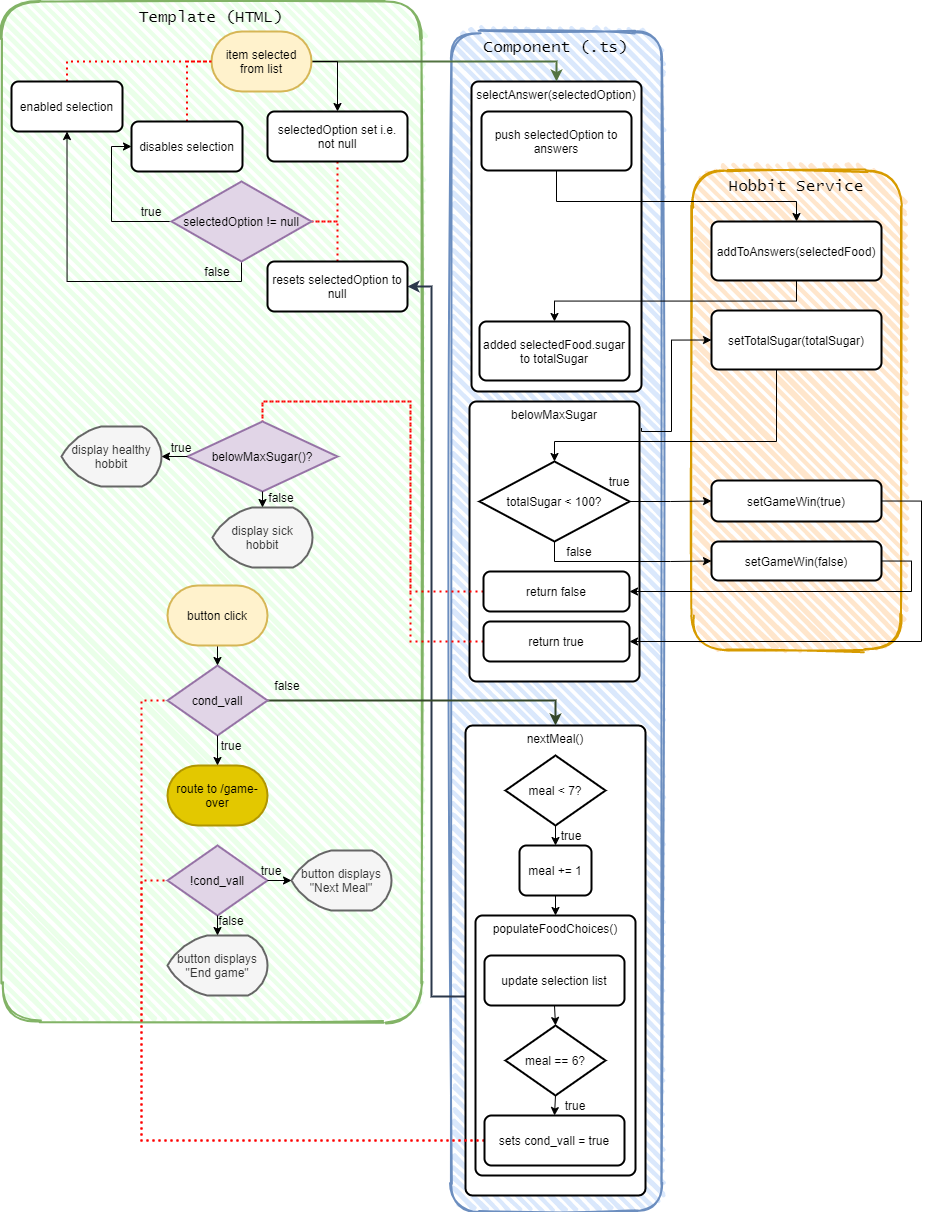
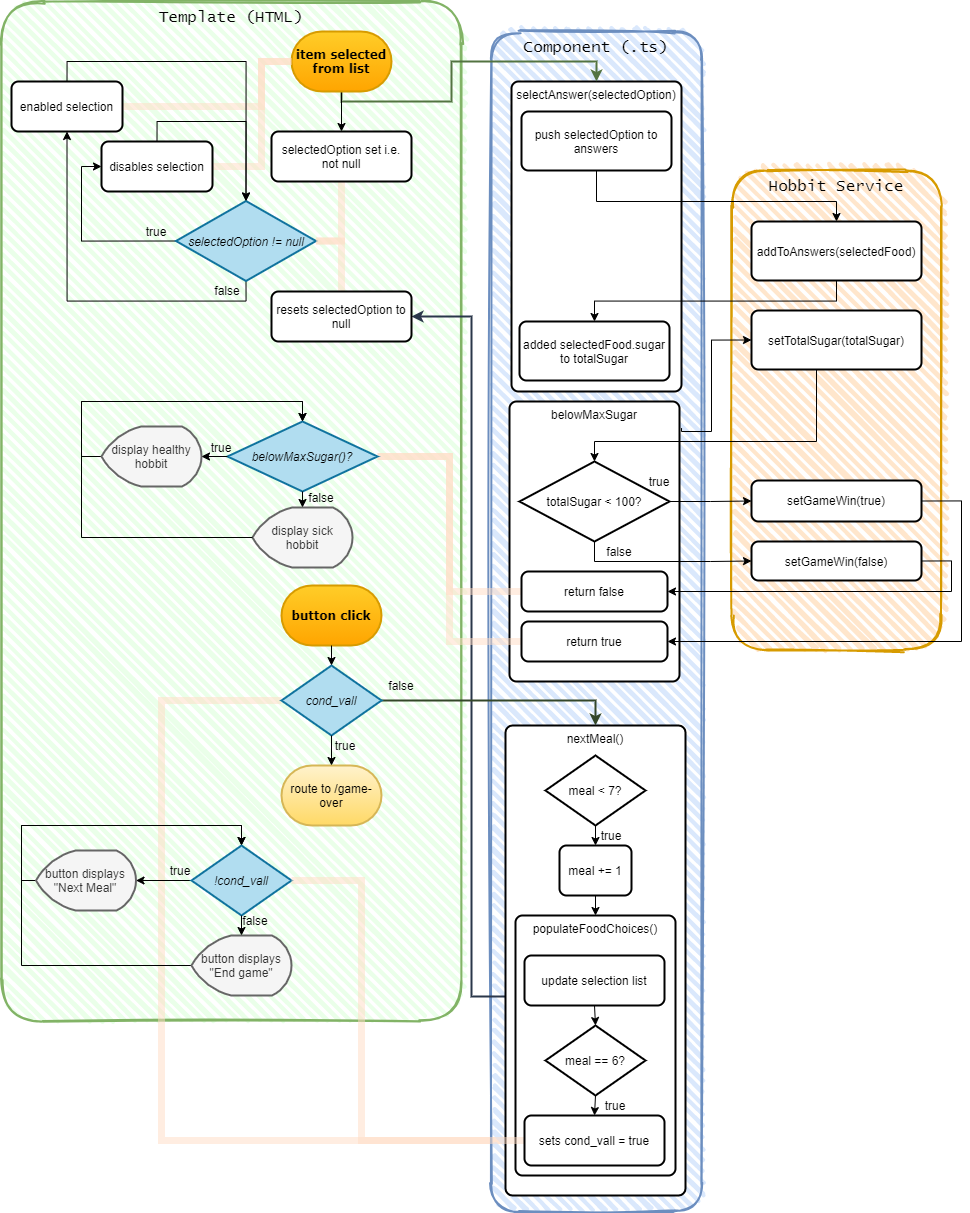
Edited flowchart and description in system implementation

Changed region(s): [[0.0, 0.0, 0.9978, 1.0], [0.0, 0.8243, 0.0312, 0.8548], [0.0, 0.0, 0.0312, 0.0305]]

diff --git a/SystemImplementation/README.md b/SystemImplementation/README.md
@@ -50,9 +50,9 @@ Various modules were imported from Angular material such as icon, divider, butto
 
 Due to the quiz format of the application, the quiz component needs to change dynamically as the user interacts with it. This is achieved through conditional statements in the template (HTML) and class (typescript). The chart below illustrates the processes in this component:
 
-![flowchart for foodQuizComponent](quiz-flowchart.png)
+(Yellow blocks shows user input, grey blocks show updated display, blue diamonds show conditional statements in the template, and the orange tracks shows how/when the boolean values checked in the conditional statements are updated.)
 
-Yellow blocks shows user input, grey blocks show updated display, purple diamonds show conditional statements in the template, red dotted lines shows how/when the boolean values checked in the conditional statements are updated.
+![flowchart for foodQuizComponent](quiz-flowchart.png)
 
 ### Injectables/Services
 
